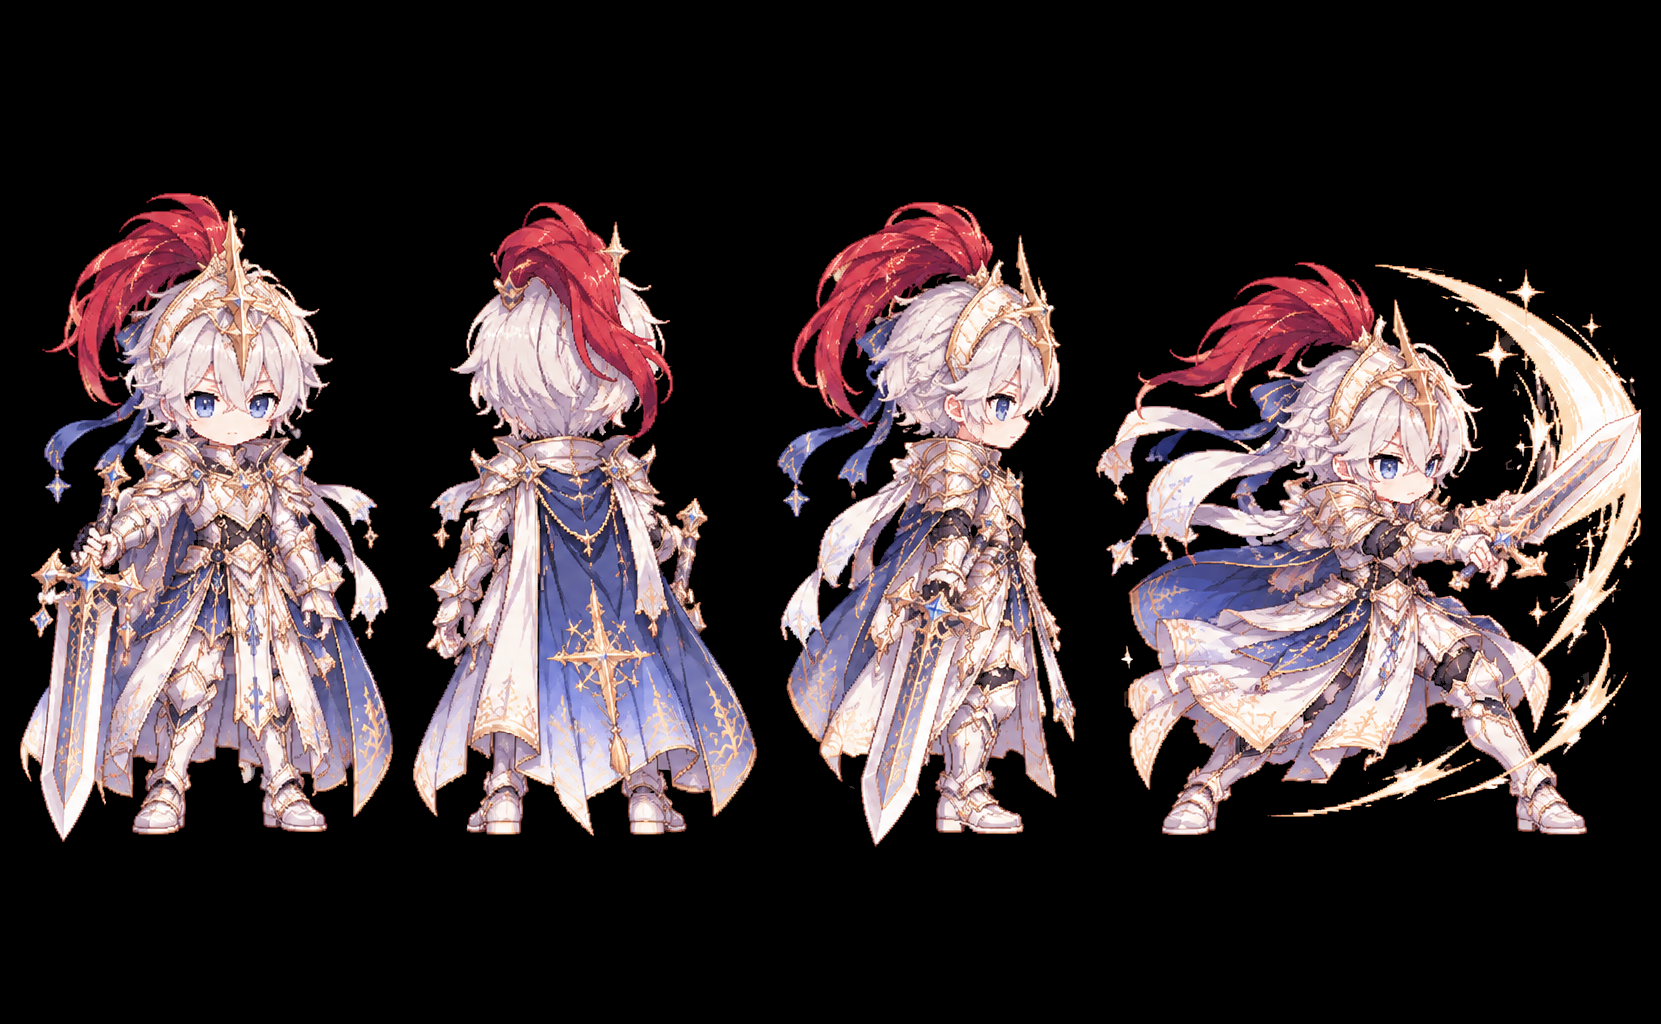
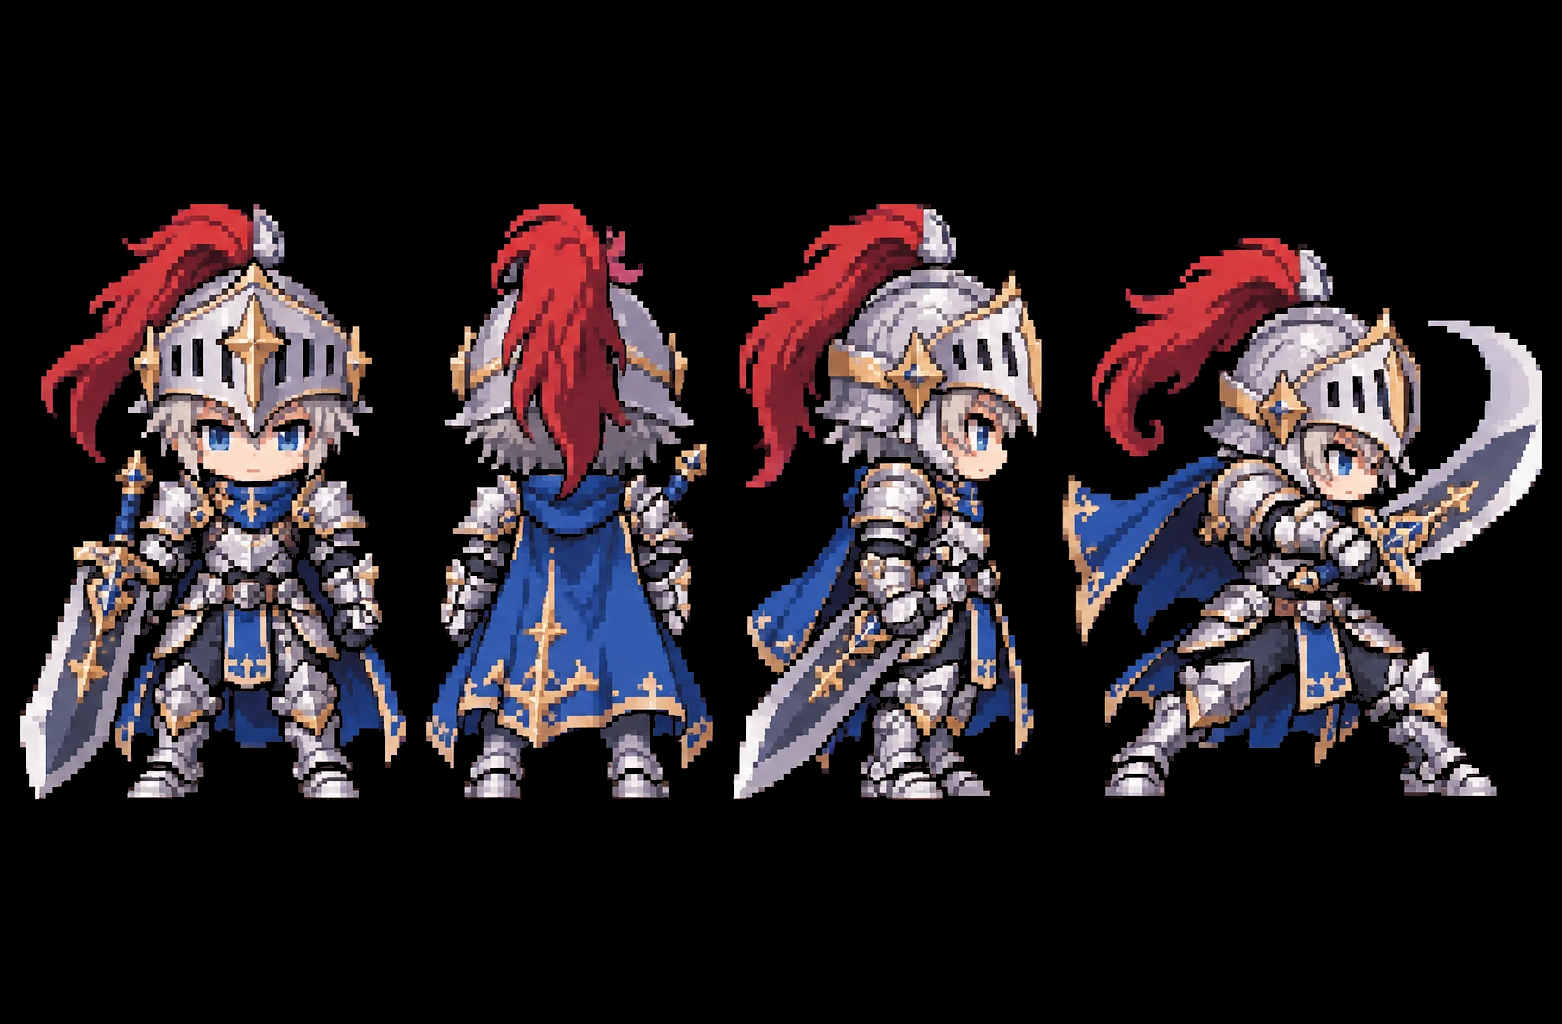
파수꾼 그림을 진한 색·굵은 테두리 그림으로 (0.48.273) · GPT 규칙을 이 화풍 기준으로 상세하게

diff --git a/apps/client/src/patchNotes/latest.ts b/apps/client/src/patchNotes/latest.ts
@@ -4,6 +4,15 @@ import type { PatchNote } from "./types";
 // 이 파일이 12KB를 넘으면 오래된 버전을 새 묶음 파일로 옮기고 index.ts에 이어 붙임
 export const NOTES: PatchNote[] = [
   {
+    version: "0.48.273",
+    date: "2026-10-31",
+    items: {
+      ko: ["파수꾼 그림을 진한 색·굵은 테두리 그림으로 바꿈: 은빛 판금 갑옷, 붉은 깃털 투구, 푸른 망토 · 어두운 바닥에서도 또렷하게 보임"],
+      en: ["Warden art swapped to a bolder version with rich colors and thick outlines: silver plate armor, red-plumed helmet, blue cape · stands out clearly on dark floors"],
+      ja: ["番人の絵を濃い色・太い縁取りの絵に変更: 銀のプレートアーマー、赤い羽根の兜、青いマント · 暗い床でもはっきり見える"],
+    },
+  },
+  {
     version: "0.48.272",
     date: "2026-10-31",
     items: {

diff --git a/packages/shared/src/constants.ts b/packages/shared/src/constants.ts
@@ -1,5 +1,5 @@
 /** 게임 버전 (패치 노트 맨 위 버전과 같게 유지) */
-export const GAME_VERSION = "0.48.272";
+export const GAME_VERSION = "0.48.273";
 
 /** 한 칸(타일) 크기, 픽셀 */
 export const TILE_SIZE = 16;

diff --git a/scripts/art/import_sheet.py b/scripts/art/import_sheet.py
@@ -22,7 +22,7 @@ SOURCES = {
         body=116,
     ),
     "warden": dict(
-        parts={"front": (20, 373), "back": (413, 344), "right": (777, 299), "idle": (1096, 545)},
+        parts={"front": (20, 386), "back": (426, 287), "right": (733, 309), "idle": (1062, 480)},
         rows=[["front"] * 4, ["back"] * 4, ["right"] * 4, ["idle", "idle", "idle", "right"]],
         body=116,
     ),

diff --git a/docs/ART_PROMPTS.md b/docs/ART_PROMPTS.md
@@ -1,30 +1,61 @@
 # GPT에 줄 프롬프트 모음 (전부)
 
-> 2026-10-31. 목록은 `docs/ART_LIST.md`, 만드는 순서는 `docs/ART_AI.md`
+> 2026-10-31 (화풍 기준: 굵고 진한 파수꾼, 게임 화면에서 비교해 정함). 목록은 `docs/ART_LIST.md`, 만드는 순서는 `docs/ART_AI.md`
 > **쓰는 법**: GPT 새 대화마다 맨 처음에 그 묶음의 **[규칙]**을 한 번 붙여 넣고 → 아래 줄을 하나씩 보냄 (한 번에 1명·1개)
 > 참고 그림: 함께 보낸 `참고그림` 묶음에서 같은 이름 그림을 같이 올리면 지금 모습(색·성별·무기)이 유지됨 (디자인을 새로 하고 싶으면 빼도 됨)
 > 결과는 **다운로드한 원본 PNG**로 받아 Claude에게 (128칸 기준: 규칙에 '128×128 칸 도트를 확대해서'를 넣어 둠 · GPT가 칸을 정확히 못 맞춰도 Claude가 변환하며 맞춤) · 다른 게임·작품 캐릭터를 따라 하지 않게 (규칙에 들어 있음)
 
 ---
 
-## A. 캐릭터 기본 그림 (51명, ✅ 마법사 끝)
+## A. 캐릭터 기본 그림 (51명, ✅ 파수꾼 = 화풍 기준 · 마법사는 이 화풍으로 다시)
 
-### [규칙] — 대화 처음에 한 번
+### [규칙] — 대화 처음에 한 번 (기준 그림 `scripts/art/src/warden.png` 파수꾼을 함께 첨부)
 ```
-지금부터 픽셀 아트 게임 캐릭터를 한 명씩 만들 거야. 매번 아래 규칙을 지켜 줘.
-- 한 장에: 게임용 캐릭터 4가지 자세(정면 · 뒷모습 · 오른쪽을 보는 옆모습 · 무기를 쓰는 공격 자세)를 가로로 크게 (큰 전신 그림·설명 칸은 넣지 않음)
-- 게임용 캐릭터: 각각 128×128 칸짜리 도트 스프라이트(캐릭터 키가 약 120칸)를 그대로 확대해서 보여 줘 — 도트 한 칸의 크기가 모두 같게, 흐릿한 중간색 없이
-- 2등신, 머리가 큰 귀여운 비율, 4개 모두 같은 크기, 발 높이를 맞춤, 서로 겹치지 않게 띄움
-- 깔끔한 도트, 진한 테두리, 왼쪽 위에서 빛, 단색 검정 배경, 바닥 그림자·글자·제목·설명 없음
-- 4가지 자세 모두 같은 얼굴·머리·옷·무기
-- 기존 게임이나 다른 작품의 캐릭터를 따라 하지 않은 독창적인 디자인
-- 노출이 심하지 않게 (전체 이용가 게임)
-내가 "캐릭터: ..." 로 보내면 그 캐릭터를 만들어 줘.
+지금부터 픽셀 아트 게임 캐릭터를 한 명씩 만들 거야. 매번 아래 규칙을 정확히 지켜 줘.
+
+[화풍 기준] 첨부한 기사 그림이 이 게임의 기준 화풍이야. 모든 캐릭터를 첨부 그림과 똑같은 등신 비율(머리 크기), 굵고 진한 테두리, 진하고 선명한 색, 명암 단계, 도트 크기로 그려 줘. 디자인만 다르고 같은 화가가 그린 것처럼. 첨부 캐릭터를 따라 그리지는 마.
+
+[그림 크기·배치]
+- 결과 그림은 가로로 긴 1536×1024.
+- 같은 캐릭터 4가지 자세를 왼쪽부터 가로 한 줄로: ① 정면 ② 뒷모습 ③ 오른쪽을 보는 옆모습 ④ 무기를 쓰는 공격 자세(오른쪽을 봄)
+- 자세마다 128×128 칸짜리 도트 스프라이트를 3배로 확대해서 보여 줘 (도트 1칸 = 3×3픽셀, 칸 하나 = 384×384픽셀).
+- 캐릭터 키는 칸 높이의 약 90%(약 116칸). 4자세 모두 키·크기가 같고 발바닥이 같은 가로선에.
+- 자기 칸 밖으로 나가거나 옆 자세와 겹치지 않게 (무기·머리카락·망토·공격 효과까지).
+- 큰 전신 그림·얼굴 확대·설명 칸·색상표·글자·제목·번호·서명 없음.
+
+[게임에서 잘 보이게 — 가장 중요]
+- 게임에서는 작게, 어두운 회색 바닥 위에서 움직이며 보여. 작게 줄여도 한눈에 알아보게 그려 줘.
+- 진하고 채도 높은 색을 큰 덩어리로 (옷·망토·머리마다 대표색 하나가 분명하게). 흰색·연한 파스텔 위주는 피함.
+- 잔무늬·얇은 금테·작은 반짝이·떠다니는 장식은 최소로. 장식은 크고 굵게 몇 개만.
+- 몸 둘레는 2칸 두께의 진한 테두리.
+
+[도트 규칙]
+- 도트 1칸 크기가 모두 같은 정사각형, 반쪽 도트 없음.
+- 블러·부드러운 그라데이션·번짐(안티앨리어싱)·노이즈·질감 필터 없음. 색 경계가 또렷하게.
+- 색은 캐릭터 하나에 약 32~48가지, 면마다 3~4단계 명암. 빛은 왼쪽 위에서.
+- 테두리는 순수한 검정이 아니라 아주 어두운 색(짙은 남색·갈색·자주처럼 옷 색에 맞춰).
+
+[배경]
+- 배경 전체가 순수한 검정(#000000) 한 가지 색.
+- 바닥 그림자·바닥 선·배경 무늬·배경으로 퍼지는 빛 번짐·반짝이 없음 (빛나는 부분은 몸·무기 안에서만).
+
+[캐릭터 모양]
+- 2등신, 머리가 큰 귀여운 비율.
+- 4자세 모두 얼굴·눈 색·머리 모양과 색·옷·무기가 완전히 같게.
+- 뒷모습은 얼굴이 안 보이고 머리 뒤·망토·등의 물건이 보이게. 옆모습은 걷는 중간 자세.
+- 공격 자세는 무기를 쓰는 순간을 크게, 칸 안에서.
+- 무기는 4자세 모두 들고 있거나 몸에 참.
+- 다른 게임·애니·만화 캐릭터를 따라 하지 않은 독창적인 디자인. 노출 심하지 않게 (전체 이용가).
+
+내가 "캐릭터: 이름 — 설명" 으로 보내면 위 규칙대로 그 캐릭터 한 명만 만들어 줘.
 ```
+- 어긋났을 때: "도트가 흐려졌어, 또렷하게 다시" · "4자세 크기가 달라, 같은 키·같은 발 높이로" · "자세마다 얼굴·옷이 달라, 정면과 똑같이" · "칸 밖으로 나갔어, 칸 안에 들어오게" · "색이 너무 연하고 장식이 많아, 첨부 그림처럼 진하고 단순하게"
+- 결과는 저장소 `art/` 폴더에 올림 (`art/README.md`)
 
 ### 캐릭터별 (한 줄씩 보내기)
 
 **기본**
+- 캐릭터: 마법사 — 허리까지 물결치는 금발 긴 머리 소녀, 파란 눈, 머리의 흰 꽃 장식, 흰 로브에 파란 천과 금 테, 머리 뒤 금빛 고리, 별 모양 수정이 달린 금 지팡이. 공격 자세는 지팡이를 들어 마법을 쏨 (지금보다 진한 색으로)
 - 캐릭터: 파수꾼 — 은빛 판금 갑옷의 젊은 기사(남), 붉은 깃털 투구, 파란 망토, 넓게 베는 큰 칼. 공격 자세는 칼을 크게 휘두름
 - 캐릭터: 떠돌이 — 바람 유랑자(남), 헝클어진 밤색 머리, 바람에 날리는 청록 목도리, 열린 가죽 재킷, 허리 주머니, 부츠, 쇠뇌(석궁). 공격 자세는 쇠뇌를 겨눔
 - 캐릭터: 음양사 — 검은 긴 생머리 소녀, 흰 저고리에 붉은 치마 무녀 옷, 손에 든 부적 다발. 공격 자세는 부적을 던짐
@@ -116,13 +147,39 @@
 
 ## C. 보스 (✅ 강철 거구 · ✅ 공허의 눈 끝)
 
-### [규칙]
+### [규칙] (기준 그림 파수꾼 함께 첨부)
 ```
-픽셀 아트 게임 보스를 만들 거야. 한 장에 같은 보스의 4가지 모습을 가로로: 걷기 1 · 걷기 2 · 공격 준비 · 공격.
-모두 오른쪽을 봄, 같은 크기, 발 높이 맞춤, 넉넉히 띄움. 위엄 있고 무섭게 (여자 보스는 아름답고 매혹적으로, 노출 심하지 않게).
-깔끔한 도트, 진한 테두리, 왼쪽 위에서 빛, 단색 검정 배경, 글자 없음, 다른 작품을 따라 하지 않은 독창적인 디자인.
-각 모습은 캐릭터보다 크게, 256×256 칸짜리 도트 스프라이트를 확대해서 보여 줘 (도트 크기 일정).
-내가 "보스: ..." 로 보내면 만들어 줘.
+지금부터 픽셀 아트 게임 보스를 한 마리씩 만들 거야. 매번 아래 규칙을 정확히 지켜 줘.
+
+[화풍 기준] 첨부한 기사 그림과 같은 화풍(굵고 진한 테두리, 진하고 선명한 색, 명암 단계)으로. 첨부 캐릭터를 따라 그리지는 마.
+
+[그림 크기·배치]
+- 결과 그림은 정사각형 1024×1024.
+- 2×2 네 칸에 같은 보스 4가지 모습: 왼쪽 위 = 걷기 1 · 오른쪽 위 = 걷기 2(반대 발) · 왼쪽 아래 = 공격 준비 · 오른쪽 아래 = 공격
+- 칸마다 256×256 칸짜리 도트 스프라이트를 2배로 확대해서 보여 줘 (도트 1칸 = 2×2픽셀, 칸 하나 = 512×512픽셀).
+- 보스는 칸을 거의 채우게 (높이나 너비가 약 220~230칸). 4모습 모두 같은 크기, 발바닥이 같은 가로선에 (떠 있는 보스는 몸 중심 높이를 맞춤).
+- 4모습 모두 오른쪽을 봄. 자기 칸 밖으로 나가거나 겹치지 않게 (날개·꼬리·무기·공격 효과까지).
+- 큰 일러스트·얼굴 확대·설명·색상표·글자·번호·칸 나누는 선 없음.
+
+[게임에서 잘 보이게]
+- 어두운 바닥 위에서 움직여도 한눈에 알아보게: 진하고 채도 높은 대표색을 큰 덩어리로, 잔무늬·작은 반짝이는 최소, 큰 장식 몇 개만.
+- 캐릭터보다 세밀하게 (갑옷 이음새·비늘·깃털·옷 주름)하되 덩어리가 먼저 보이게.
+
+[도트 규칙]
+- 도트 1칸 크기가 모두 같은 정사각형, 반쪽 도트 없음. 블러·그라데이션·번짐·노이즈·질감 필터 없음.
+- 색은 약 48~64가지, 면마다 3~5단계 명암. 빛은 왼쪽 위에서.
+- 몸 둘레 2칸 두께 테두리, 순수한 검정이 아닌 아주 어두운 색(몸 색에 맞춤).
+
+[배경]
+- 배경 전체가 순수한 검정(#000000). 바닥 그림자·바닥 선·배경 무늬·퍼지는 빛 번짐 없음.
+- 공격 준비·공격의 마법 빛·불길·검기는 몸에 붙여 칸 안에서 또렷하게 (안개처럼 번지지 않게).
+
+[보스 모양]
+- 위엄 있고 무섭게. 여자 보스는 아름답고 매혹적으로, 노출은 심하지 않게 (전체 이용가).
+- 4모습 모두 얼굴·색·장비가 같게. 걷기 1·2는 다리(몸)를 번갈아, 공격 준비는 힘을 모으는 자세, 공격은 가장 크게 움직인 순간.
+- 다른 작품을 따라 하지 않은 독창적인 디자인.
+
+내가 "보스: 이름 — 설명 · 공격 준비 = … · 공격 = …" 으로 보내면 위 규칙대로 그 보스 하나만 만들어 줘.
 ```
 - 보스: 무리 여왕 — 보랏빛 날개와 꼬리의 서큐버스 여왕, 붉은 드레스, 손에 분홍 마력 구슬. 공격 준비 = 구슬을 모음 · 공격 = 부채꼴로 마탄
 - 보스: 검은 기사 — 뿔 투구에 붉은 눈 틈, 검은 판금, 붉은 망토, 큰 검. 공격 준비 = 검을 머리 위로 · 공격 = 내려 베기
